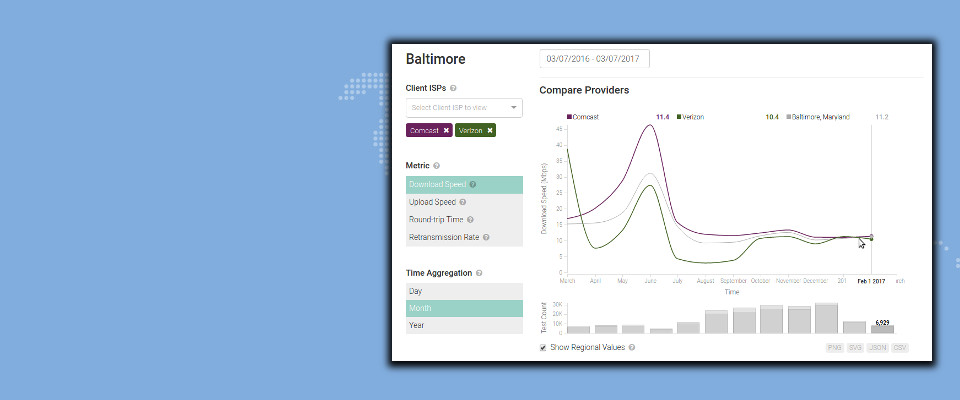
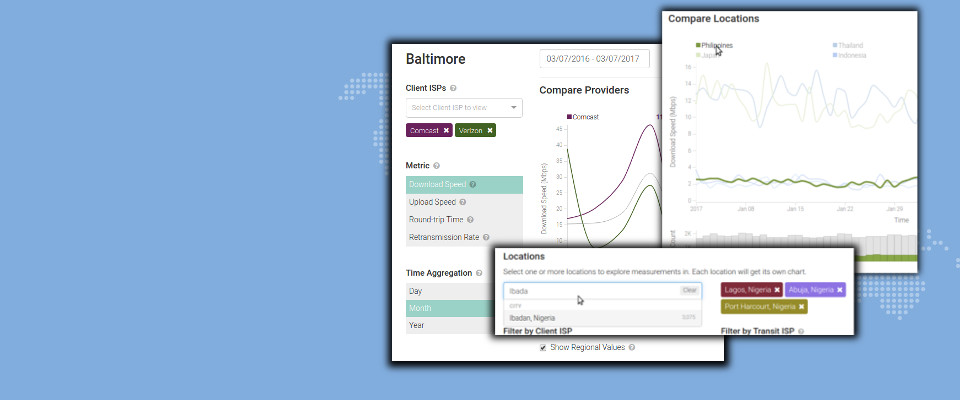
Added more screenshots of the viz in the carosel and blog post

Changed region(s): [[0.5, 0.0, 1.0, 0.93], [0.7812, 0.27, 0.9062, 0.3], [0.8125, 0.51, 0.8438, 0.54]]

diff --git a/_posts/blog/2017-03-07-new-dataviz-site.md b/_posts/blog/2017-03-07-new-dataviz-site.md
@@ -12,7 +12,10 @@ categories:
 
 The Measurement Lab (M-Lab) global measurement platform contains the largest collection of open internet performance [data]({{ site.baseurl }}/data/) on the planet. [Hundreds of thousands of people (and rising everyday!) test their internet connections](https://viz.measurementlab.net/) on M-Lab and provide that data to the [public domain]({{ site.baseurl }}/data/#data-license-and-citing-m-lab-data) for research, analysis and advocacy. As a consortium of research, industry, and public-interest partners,  M-Lab is dedicated to providing an ecosystem for the open, verifiable measurement of global network performance. With an extensive library of data dating back to 2009, M-Lab has over 5 petabytes of information about quality of experience on the internet contributed by people like you.<!--more-->
 
-With so much data available, analyzing trends from the data can be a daunting task. That’s why, over the last year, we’ve been working to improve access to our data through visualizations and [applications](https://www.newamerica.org/oti/press-releases/seattle-launches-broadband-speed-test-in-partnership-with-oti/){:target="_blank"}. At the end of 2015, we launched the [Observatory](https://www.measurementlab.net/observatory/) to support the M-Lab study [ISP Interconnection and its Impact on Consumer Internet Performance]({{ site.baseurl }}/publications/M-Lab_Interconnection_Study_US.pdf), which made it possible for policy makers, researchers, journalists and others to monitor and analyze data about how interconnection points between internet service providers (ISPs) in the United States impact quality of experience. But M-Lab has much more data than just from the United States: it also has data from around the world and on many more ISPs, so we wanted to provide a tool that allowed anyone in the world to dig into our internet performance measurement test (NDT) data for their location. In 2016, we launched an initiative to revamp our visualizations and move to using open source technology to make them more flexible and auditable by the community. We worked with [Bocoup](https://bocoup.com/datavis){:target="_blank"}, an open source technology and design consulting firm, to develop a data processing [pipeline](https://github.com/m-lab/mlab-vis-pipeline){:target="_blank"}, [API](https://github.com/m-lab/mlab-vis-api){:target="_blank"} and [visualizations](https://github.com/m-lab/mlab-vis-client){:target="_blank"} all of which contribute to making the data more explorable.
+![M-Lab Visualization - Compare Download Speeds in Philippines and Thailand]({{ site.baseurl }}/images/blog/viz-SEasia-compare1.png)
+
+With so much data available, analyzing trends from the data can be a daunting task. That’s why, over the last year, we’ve been working to improve access to our data through visualizations and [applications](https://www.newamerica.org/oti/press-releases/seattle-launches-broadband-speed-test-in-partnership-with-oti/){:target="_blank"}. At the end of 2015, we launched the [Observatory](https://www.measurementlab.net/observatory/) to support the M-Lab study [ISP Interconnection and its Impact on Consumer Internet Performance]({{ site.baseurl }}/publications/M-Lab_Interconnection_Study_US.pdf), which made it possible for policy makers, researchers, journalists and others to monitor and analyze data about how interconnection points between internet service providers (ISPs) in the United States impact quality of experience. ![M-Lab Visualization - Compare Providers in San Francisco]({{ site.baseurl }}/images/blog/viz-sanfran.png)
+But M-Lab has much more data than just from the United States: it also has data from around the world and on many more ISPs, so we wanted to provide a tool that allowed anyone in the world to dig into our internet performance measurement test (NDT) data for their location. In 2016, we launched an initiative to revamp our visualizations and move to using open source technology to make them more flexible and auditable by the community. We worked with [Bocoup](https://bocoup.com/datavis){:target="_blank"}, an open source technology and design consulting firm, to develop a data processing [pipeline](https://github.com/m-lab/mlab-vis-pipeline){:target="_blank"}, [API](https://github.com/m-lab/mlab-vis-api){:target="_blank"} and [visualizations](https://github.com/m-lab/mlab-vis-client){:target="_blank"} all of which contribute to making the data more explorable.
 
 At M-Lab, we believe that an open internet is the foundation of access and innovation, where users can go where they want, when they want without discrimination, but how do we know if the internet is truly open? By designing these new visualizations, now anyone, regardless of their technical expertise, can [explore](https://viz.measurementlab.net/) how their internet experience is mediated by the various actors that make the internet function.
 
